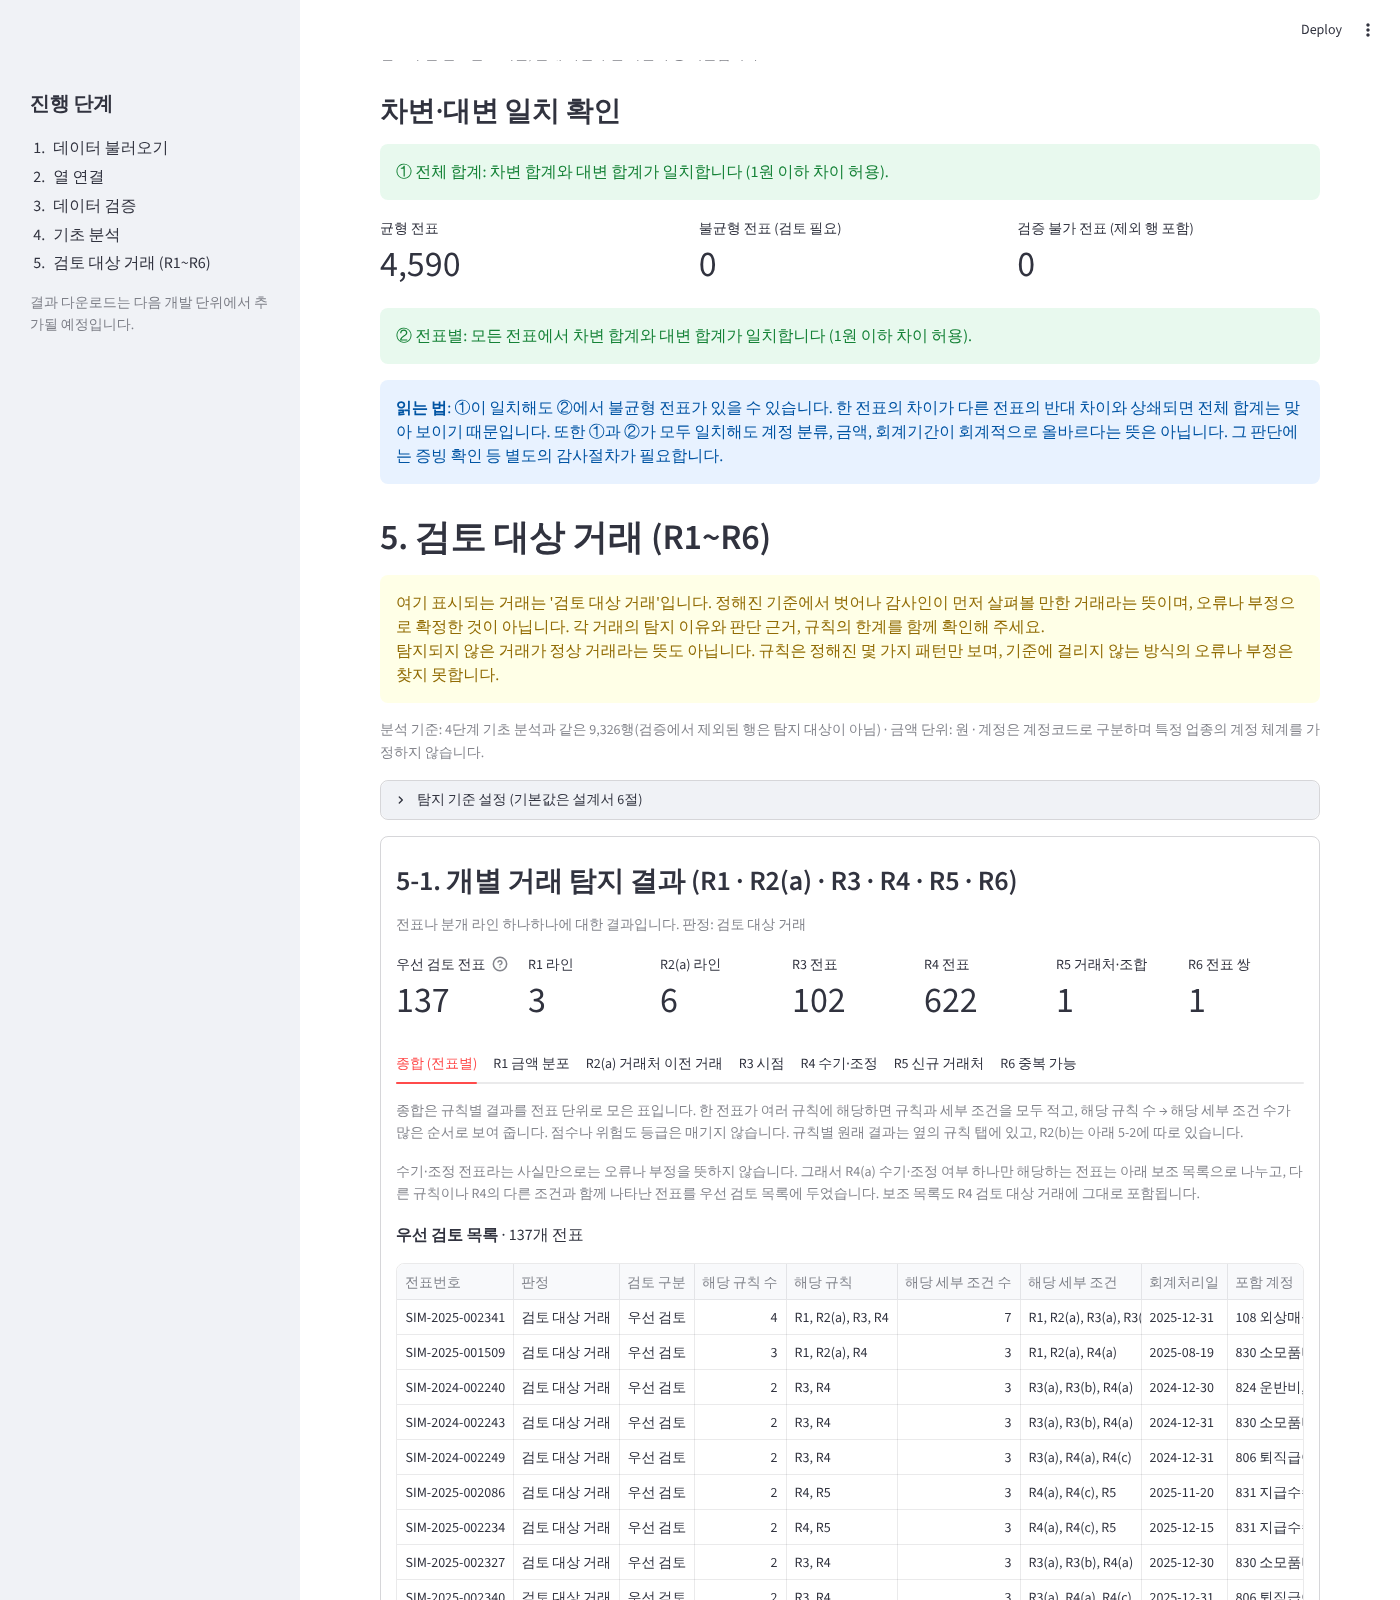
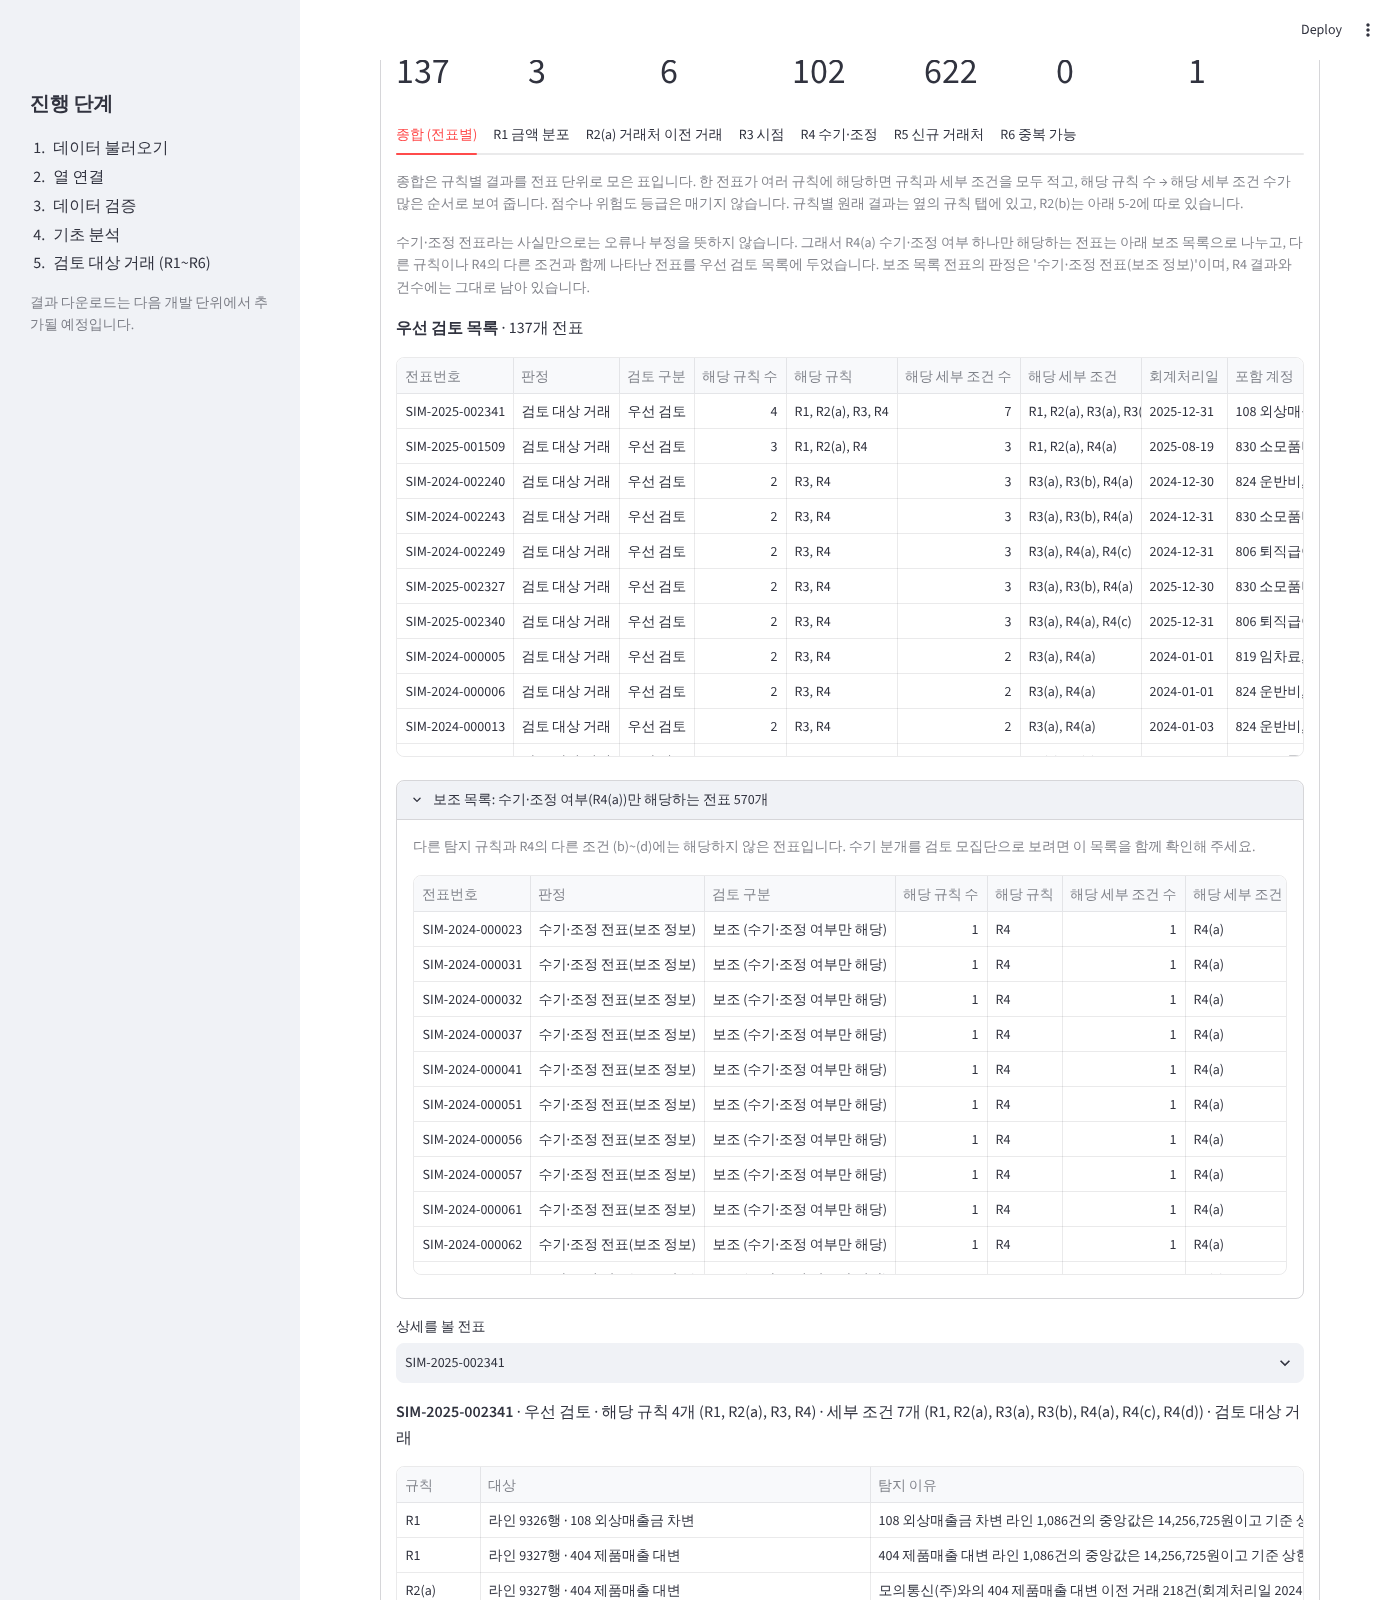
보조 목록 판정 문구와 R2(b) 이상 기간의 전표 목록
- 수기·조정 여부만 해당하는 전표의 판정을 '수기·조정 전표(보조 정보)'로 표시 (종합과 R4 탭 모두, 건수는 그대로)
- 5-2 '그 달의 거래 보기' 아래에 그 계정-월의 전표 목록과 각 전표의 종합 검토 구분을 표시 (period_vouchers)
- 테스트 2개 추가, 기존 테스트 2곳 보강 (전체 177개)

Claude-Session: https://claude.ai/code/session_01DbvhCLCeHEFVYbBNJ4URzf

diff --git a/app.py b/app.py
@@ -14,7 +14,7 @@ from auditlens.analysis import (
     unbalanced_vouchers, unverifiable_vouchers, voucher_lines,
 )
 from auditlens.detection import RULES, DetectionSettings, run_detection
-from auditlens.detection import PERIOD_LABEL, PRIORITY_GROUP, SUPPORT_GROUP
+from auditlens.detection import PERIOD_LABEL, PRIORITY_GROUP, SUPPORT_GROUP, SUPPORT_LABEL, period_vouchers
 from auditlens.detection import REVIEW_LABEL as DETECTION_LABEL
 from auditlens.loader import LoadError, list_excel_sheets, read_uploaded_file
 from auditlens.sample_data import (
@@ -506,7 +506,8 @@ def show_table(table, money_cols, date_cols=("회계처리일",), key=None):
 # ---- 5-1. 개별 거래 탐지 결과
 with st.container(border=True):
     st.subheader("5-1. 개별 거래 탐지 결과 (R1 · R2(a) · R3 · R4 · R5 · R6)")
-    st.caption("전표나 분개 라인 하나하나에 대한 결과입니다. 판정: " + DETECTION_LABEL)
+    st.caption(f"전표나 분개 라인 하나하나에 대한 결과입니다. 판정: {DETECTION_LABEL}. 수기·조정 여부만 해당하는 전표는 "
+               f"'{SUPPORT_LABEL}'로 표시합니다.")
     m1, m2, m3, m4, m5, m6, m7 = st.columns(7)
     priority = det.summary[det.summary["검토 구분"] == PRIORITY_GROUP]
     support = det.summary[det.summary["검토 구분"] == SUPPORT_GROUP]
@@ -528,7 +529,7 @@ with st.container(border=True):
                    "규칙별 원래 결과는 옆의 규칙 탭에 있고, R2(b)는 아래 5-2에 따로 있습니다.")
         st.caption("수기·조정 전표라는 사실만으로는 오류나 부정을 뜻하지 않습니다. 그래서 R4(a) 수기·조정 여부 하나만 해당하는 "
                    "전표는 아래 보조 목록으로 나누고, 다른 규칙이나 R4의 다른 조건과 함께 나타난 전표를 우선 검토 목록에 "
-                   "두었습니다. 보조 목록도 R4 검토 대상 거래에 그대로 포함됩니다.")
+                   f"두었습니다. 보조 목록 전표의 판정은 '{SUPPORT_LABEL}'이며, R4 결과와 건수에는 그대로 남아 있습니다.")
         if det.summary.empty:
             st.success("현재 기준으로 R1~R6에 해당하는 전표가 없습니다. 탐지되지 않았다고 문제가 없다는 뜻은 아닙니다.")
         else:
@@ -544,7 +545,7 @@ with st.container(border=True):
             pick = st.selectbox("상세를 볼 전표", det.summary["전표번호"], key="det_pick")
             row = det.summary.set_index("전표번호").loc[pick]
             st.markdown(f"**{pick}** · {row['검토 구분']} · 해당 규칙 {row['해당 규칙 수']}개 ({row['해당 규칙']}) · "
-                        f"세부 조건 {row['해당 세부 조건 수']}개 ({row['해당 세부 조건']}) · {DETECTION_LABEL}")
+                        f"세부 조건 {row['해당 세부 조건 수']}개 ({row['해당 세부 조건']}) · {row['판정']}")
             st.dataframe(det.reasons[det.reasons["전표번호"] == pick].drop(columns="전표번호"), hide_index=True,
                          use_container_width=True, column_config={"탐지 이유": st.column_config.TextColumn(width="large")})
             st.caption("규칙별·라인별 탐지 사유를 모두 한 행씩 보여 줍니다. 아래는 이 전표의 전체 라인입니다.")
@@ -666,6 +667,7 @@ with st.container(border=True):
         st.dataframe(shown.style.format("{:,.2f}", subset=["중앙값 대비 배수"]), hide_index=True,
                      use_container_width=True, column_config={"탐지 이유": st.column_config.TextColumn(width="large")})
         st.caption("값의 단위는 '항목'이 라인 수이면 건, 금액이면 원입니다.")
+
         options = [f"{r.계정코드} {r.계정과목명} · {r.연월}" for r in det.r2b.drop_duplicates(["계정코드", "연월"])
                    .itertuples(index=False)]
         choice = st.selectbox("그 달의 거래 보기 (참고용)", options, key="det_r2b_pick")
@@ -677,6 +679,14 @@ with st.container(border=True):
         show_table(lines_shown, ["차변금액", "대변금액"], key="det_r2b_lines")
         st.caption(f"{ym} {code} 라인 {len(month_lines):,}건. 기간을 검토할 때 참고하도록 보여 주는 목록이며, "
                    "이 라인들이 개별적으로 검토 대상이라는 뜻은 아닙니다.")
+        vouchers = period_vouchers(df, det.summary, code, ym)
+        groups = vouchers["종합 검토 구분"].value_counts()
+        st.markdown(f"**이 기간의 전표와 종합 결과** · {len(vouchers):,}개 전표")
+        st.caption(f"위 라인이 속한 전표를 한 행씩 모으고, 각 전표가 5-1 종합의 어느 목록에 있는지 붙였습니다. 우선 검토 목록 "
+                   f"{groups.get(PRIORITY_GROUP, 0):,}개, 보조 목록 {groups.get(SUPPORT_GROUP, 0):,}개, 개별 규칙에 해당하지 "
+                   f"않은 전표 {groups.get('해당 없음', 0):,}개입니다. '판정'과 '해당 규칙'은 종합의 결과를 그대로 옮긴 것이며, "
+                   "R2(b) 때문에 이 전표들을 개별 검토 대상 거래로 판정한 것은 아닙니다.")
+        show_table(vouchers, ["이 계정 금액", "전표 금액"], key="det_r2b_vouchers")
 
 # ---- 5-3. 기준·한계
 with st.expander("5-3. 탐지 기준과 한계"):

diff --git a/tests/test_detection_r4_r6.py b/tests/test_detection_r4_r6.py
@@ -10,8 +10,8 @@ import pandas as pd
 
 from auditlens.analysis import prepare
 from auditlens.detection import (
-    PRIORITY_GROUP, REVIEW_LABEL, SUPPORT_GROUP, DetectionSettings, r4_manual_entries, r5_new_vendors, r6_duplicates,
-    run_detection,
+    PRIORITY_GROUP, REVIEW_LABEL, SUPPORT_GROUP, SUPPORT_LABEL, DetectionSettings, period_vouchers, r4_manual_entries,
+    r5_new_vendors, r6_duplicates, run_detection,
 )
 from tests.test_detection import journal, pair
 
@@ -242,13 +242,19 @@ def test_summary_puts_manual_only_vouchers_in_support_group():
     entries = [auto(f"N{i}") for i in range(200)]
     entries += [manual("ONLY"), manual("SAME", created_by="batch", approved_by="batch"),
                 manual("NODESC", description=""), auto("AUTO_SAME", created_by="batch", approved_by="batch")]
-    summary = run_detection(journal(entries)).summary.set_index("전표번호")
+    result = run_detection(journal(entries))
+    summary = result.summary.set_index("전표번호")
     assert summary.loc["ONLY", "검토 구분"] == SUPPORT_GROUP
     assert summary.loc["ONLY", "해당 세부 조건"] == "R4(a)"
     for je in ["SAME", "NODESC", "AUTO_SAME"]:  # (a)와 다른 조건이 함께 있거나, (a)가 아닌 조건만 있는 전표
         assert summary.loc[je, "검토 구분"] == PRIORITY_GROUP
+        assert summary.loc[je, "판정"] == REVIEW_LABEL
     assert summary.loc["SAME", "해당 세부 조건"] == "R4(a), R4(b)"
-    assert (summary["판정"] == REVIEW_LABEL).all()  # 보조 목록도 검토 대상 거래 문구 그대로
+    # 보조 목록 전표는 '검토 대상 거래'가 아니라 보조 정보 문구로 표시하고, R4 표에서도 같은 문구를 씁니다.
+    assert summary.loc["ONLY", "판정"] == SUPPORT_LABEL
+    r4_labels = result.r4.set_index("전표번호")["판정"]
+    assert r4_labels["ONLY"] == SUPPORT_LABEL and r4_labels["SAME"] == REVIEW_LABEL
+    assert set(result.r4["전표번호"]) == {"ONLY", "SAME", "NODESC", "AUTO_SAME"}  # R4 탐지 대상은 그대로
 
 
 def test_summary_manual_with_other_rule_is_priority():
@@ -277,6 +283,22 @@ def test_summary_without_source_columns_has_no_support_group():
     entries += [pair("P1", date(2025, 5, 14), 777_000, vendor="V"), pair("P2", date(2025, 5, 16), 777_000, vendor="V")]
     summary = run_detection(journal(entries)).summary
     assert len(summary) and (summary["검토 구분"] == PRIORITY_GROUP).all()
+
+
+def test_period_vouchers_lists_vouchers_of_flagged_account_month_with_summary_group():
+    entries = [auto(f"N{i}", day=date(2025, 3, 10)) for i in range(200)]
+    entries += [manual("M_ONLY", day=date(2025, 6, 10)), auto("A_PLAIN", day=date(2025, 6, 11)),
+                manual("M_SAME", day=date(2025, 6, 12), created_by="batch", approved_by="batch"),
+                auto("OTHER_MONTH", day=date(2025, 7, 1))]
+    df = journal(entries)
+    result = run_detection(df)
+    table = period_vouchers(df, result.summary, "X100", "2025-06")
+    assert table["전표번호"].tolist() == ["M_SAME", "M_ONLY", "A_PLAIN"]  # 우선 → 보조 → 해당 없음
+    assert table["종합 검토 구분"].tolist() == [PRIORITY_GROUP, SUPPORT_GROUP, "해당 없음"]
+    assert table["판정"].tolist() == [REVIEW_LABEL, SUPPORT_LABEL, ""]
+    assert table.iloc[0]["이 계정 금액"] == 100_000 and table.iloc[0]["이 계정 라인 수"] == 1
+    assert period_vouchers(df, result.summary, "X100", "2024-01").empty
+    assert period_vouchers(df.iloc[0:0], result.summary, "X100", "2025-06").empty
 
 
 def test_detection_does_not_change_input_data():
@@ -342,3 +364,20 @@ def test_sample_answer_key_review_groups():
     assert (group == PRIORITY_GROUP).sum() == 137 and (group == SUPPORT_GROUP).sum() == 570
     order = summary.index.tolist()
     assert order.index(ids["A06"][0]) < 30  # R4 조건 4개 전표가 1개 규칙 전표 중 앞쪽에 옴
+
+
+def test_sample_a03_vouchers_reachable_from_r2b_period():
+    """A03은 보조 목록이지만, R2(b) 이상 기간(824 운반비 2025-06)의 전표 목록에서 36개 모두 찾을 수 있습니다."""
+    from auditlens.sample_data import generate_sample_journal
+    from auditlens.schema import suggest_mapping
+    from auditlens.validation import validate_journal
+
+    raw, key = generate_sample_journal()
+    df, _ = prepare(validate_journal(raw, suggest_mapping(raw.columns)).clean)
+    result = run_detection(df)
+    a03 = set(key.loc[key["시나리오"] == "A03", "전표번호 전체"].iloc[0].split(", "))
+    flagged = result.r2b[(result.r2b["계정코드"] == "824") & (result.r2b["연월"] == "2025-06")]
+    assert len(flagged)
+    table = period_vouchers(df, result.summary, "824", "2025-06")
+    assert a03 <= set(table["전표번호"])
+    assert (table.set_index("전표번호").loc[sorted(a03), "판정"] == SUPPORT_LABEL).all()

diff --git a/auditlens/detection.py b/auditlens/detection.py
@@ -728,6 +728,10 @@ REASON_COLUMNS = ["전표번호", "규칙", "대상", "탐지 이유"]
 PRIORITY_GROUP = "우선 검토"
 SUPPORT_GROUP = "보조 (수기·조정 여부만 해당)"
 R4_MANUAL_ID = "R4(a)"  # R4 (a) 수기·조정 전표
+SUPPORT_LABEL = "수기·조정 전표(보조 정보)"  # 보조 목록 전표의 판정 문구 (수기 전표 자체를 위험으로 보지 않음)
+NO_GROUP = "해당 없음"
+PERIOD_VOUCHER_COLUMNS = ["전표번호", "회계처리일", "이 계정 라인 수", "이 계정 금액", "포함 계정", "전표 금액", "종합 검토 구분",
+                          "판정", "해당 규칙"]
 
 
 @dataclass
@@ -803,7 +807,7 @@ def summarize(df, r1, r2a, r3, extra=()):
         # 해당 세부 조건이 R4(a) 하나뿐이면 보조 목록, 그 밖에는 우선 검토 목록입니다.
         return SUPPORT_GROUP if v["conditions"] == [R4_MANUAL_ID] else PRIORITY_GROUP
 
-    rows = [{"전표번호": je, "판정": REVIEW_LABEL, "검토 구분": group(v), "해당 규칙 수": len(v["rules"]),
+    rows = [{"전표번호": je, "판정": SUPPORT_LABEL if group(v) == SUPPORT_GROUP else REVIEW_LABEL, "검토 구분": group(v), "해당 규칙 수": len(v["rules"]),
              "해당 규칙": ", ".join(v["rules"]), "해당 세부 조건 수": len(v["conditions"]),
              "해당 세부 조건": ", ".join(v["conditions"]),
              "회계처리일": v["date"], "포함 계정": accounts.get(je, ""), "전표 금액": totals.get(je, 0.0),
@@ -827,6 +831,11 @@ def run_detection(df, settings=None):
     r5, r5_notes, r5_candidates = r5_new_vendors(df, s)
     r6, r6_notes = r6_duplicates(df, s)
     summary, reasons = summarize(df, r1, r2a, r3, _extra_reasons(df, r4, r5, r6))
+    # R4 표에서도 종합의 보조 목록 전표는 같은 판정 문구를 씁니다(탐지 대상과 건수는 그대로).
+    support = set(summary.loc[summary["검토 구분"] == SUPPORT_GROUP, "전표번호"])
+    if support:
+        r4 = r4.copy()
+        r4.loc[r4["전표번호"].isin(support), "판정"] = SUPPORT_LABEL
     return DetectionResult(s, r1, r1_skipped, r1_excluded, r2a, r2a_status, r2a_skipped, r2b, r3, r3_notes,
                            r3_counts, summary, reasons, r4, r4_notes, r4_counts, r5, r5_notes, r5_candidates, r6, r6_notes)
 
@@ -849,3 +858,33 @@ def _extra_reasons(df, r4, r5, r6):
             out.append({"전표번호": row[me], "회계처리일": dates.get(row[me]), "규칙": "R6",
                         "대상": f"짝 전표 {row[other]} · {row['일치 라인']}", "탐지 이유": row["탐지 이유"]})
     return out
+
+
+def period_vouchers(df, summary, account_code, ym):
+    """R2(b) 이상 기간(계정-월)에 속한 전표 목록. 각 전표가 종합의 어느 목록에 있는지(없으면 '해당 없음') 함께 적습니다.
+
+    R2(b) 판정을 전표로 옮기지 않습니다. 이 기간의 전표를 찾아가기 위한 목록이며, 순서는 우선 검토 → 보조 → 해당 없음,
+    그 안에서 회계처리일 순입니다.
+    """
+    if len(df) == 0:
+        return pd.DataFrame(columns=PERIOD_VOUCHER_COLUMNS)
+    lines = _lines(df)
+    mask = (lines["account_code"] == account_code) & (lines["posting_date"].dt.strftime("%Y-%m") == ym)
+    part = lines[mask]
+    if part.empty:
+        return pd.DataFrame(columns=PERIOD_VOUCHER_COLUMNS)
+    ids = part["je_id"].unique()
+    info = _voucher_frame(df[df["je_id"].isin(ids)])
+    found = summary.set_index("전표번호")
+    rows = []
+    for je, g in part.groupby("je_id", sort=False):
+        hit = je in found.index
+        rows.append({"전표번호": je, "회계처리일": g["posting_date"].min(), "이 계정 라인 수": len(g),
+                     "이 계정 금액": float(g["amount"].sum()), "포함 계정": info[je]["포함 계정"],
+                     "전표 금액": info[je]["전표 금액"],
+                     "종합 검토 구분": found.loc[je, "검토 구분"] if hit else NO_GROUP,
+                     "판정": found.loc[je, "판정"] if hit else "", "해당 규칙": found.loc[je, "해당 규칙"] if hit else ""})
+    order = {PRIORITY_GROUP: 0, SUPPORT_GROUP: 1, NO_GROUP: 2}
+    table = pd.DataFrame(rows, columns=PERIOD_VOUCHER_COLUMNS)
+    table["_o"] = table["종합 검토 구분"].map(order)
+    return table.sort_values(["_o", "회계처리일", "전표번호"]).drop(columns="_o").reset_index(drop=True)

diff --git a/tests/test_app.py b/tests/test_app.py
@@ -126,6 +126,13 @@ def test_검토_대상_거래_화면이_표시됨():
     assert (summary["검토 구분"] == "우선 검토").all()  # 첫 종합표는 우선 검토 목록
     assert any(e.label.startswith("보조 목록: 수기·조정 여부(R4(a))만 해당하는 전표") for e in at.expander)
     assert int(metrics["우선 검토 전표"].replace(",", "")) == len(summary)
+    support = [d.value for d in at.dataframe if "검토 구분" in d.value.columns
+               and (d.value["검토 구분"] == "보조 (수기·조정 여부만 해당)").all() and len(d.value)][0]
+    assert (support["판정"] == "수기·조정 전표(보조 정보)").all()
+    at.selectbox(key="det_r2b_pick").set_value("824 운반비 · 2025-06").run()
+    assert not at.exception
+    period = [d.value for d in at.dataframe if "종합 검토 구분" in d.value.columns][0]
+    assert len(period) >= 36 and set(period["종합 검토 구분"]) <= {"우선 검토", "보조 (수기·조정 여부만 해당)", "해당 없음"}
 
 
 def test_탐지_기준을_바꾸면_다시_계산됨():
